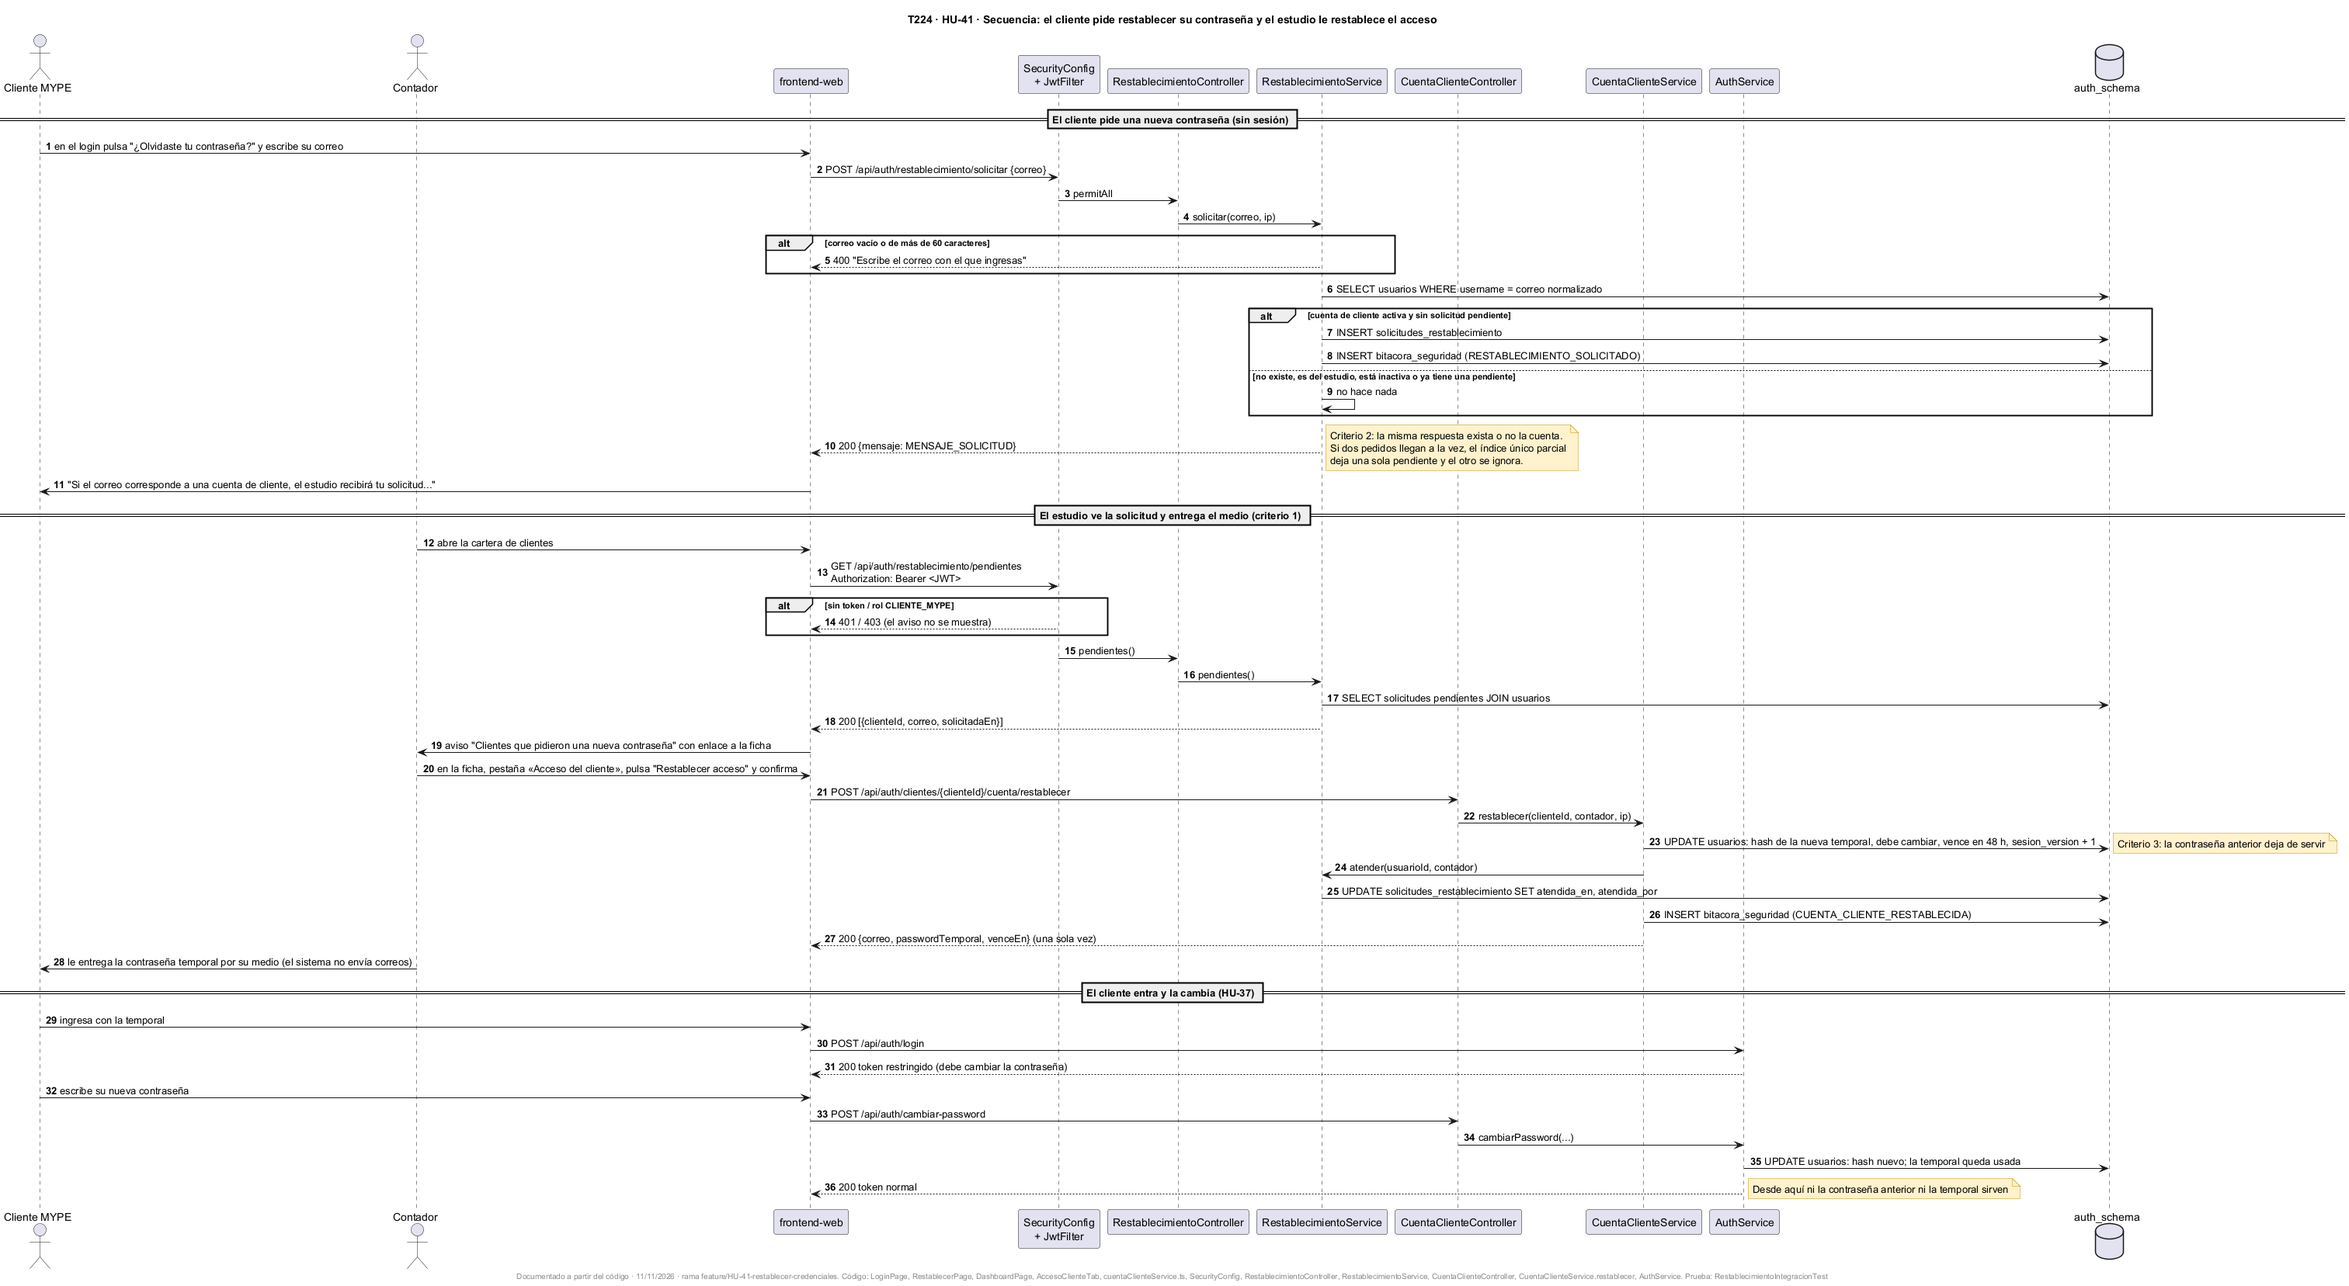
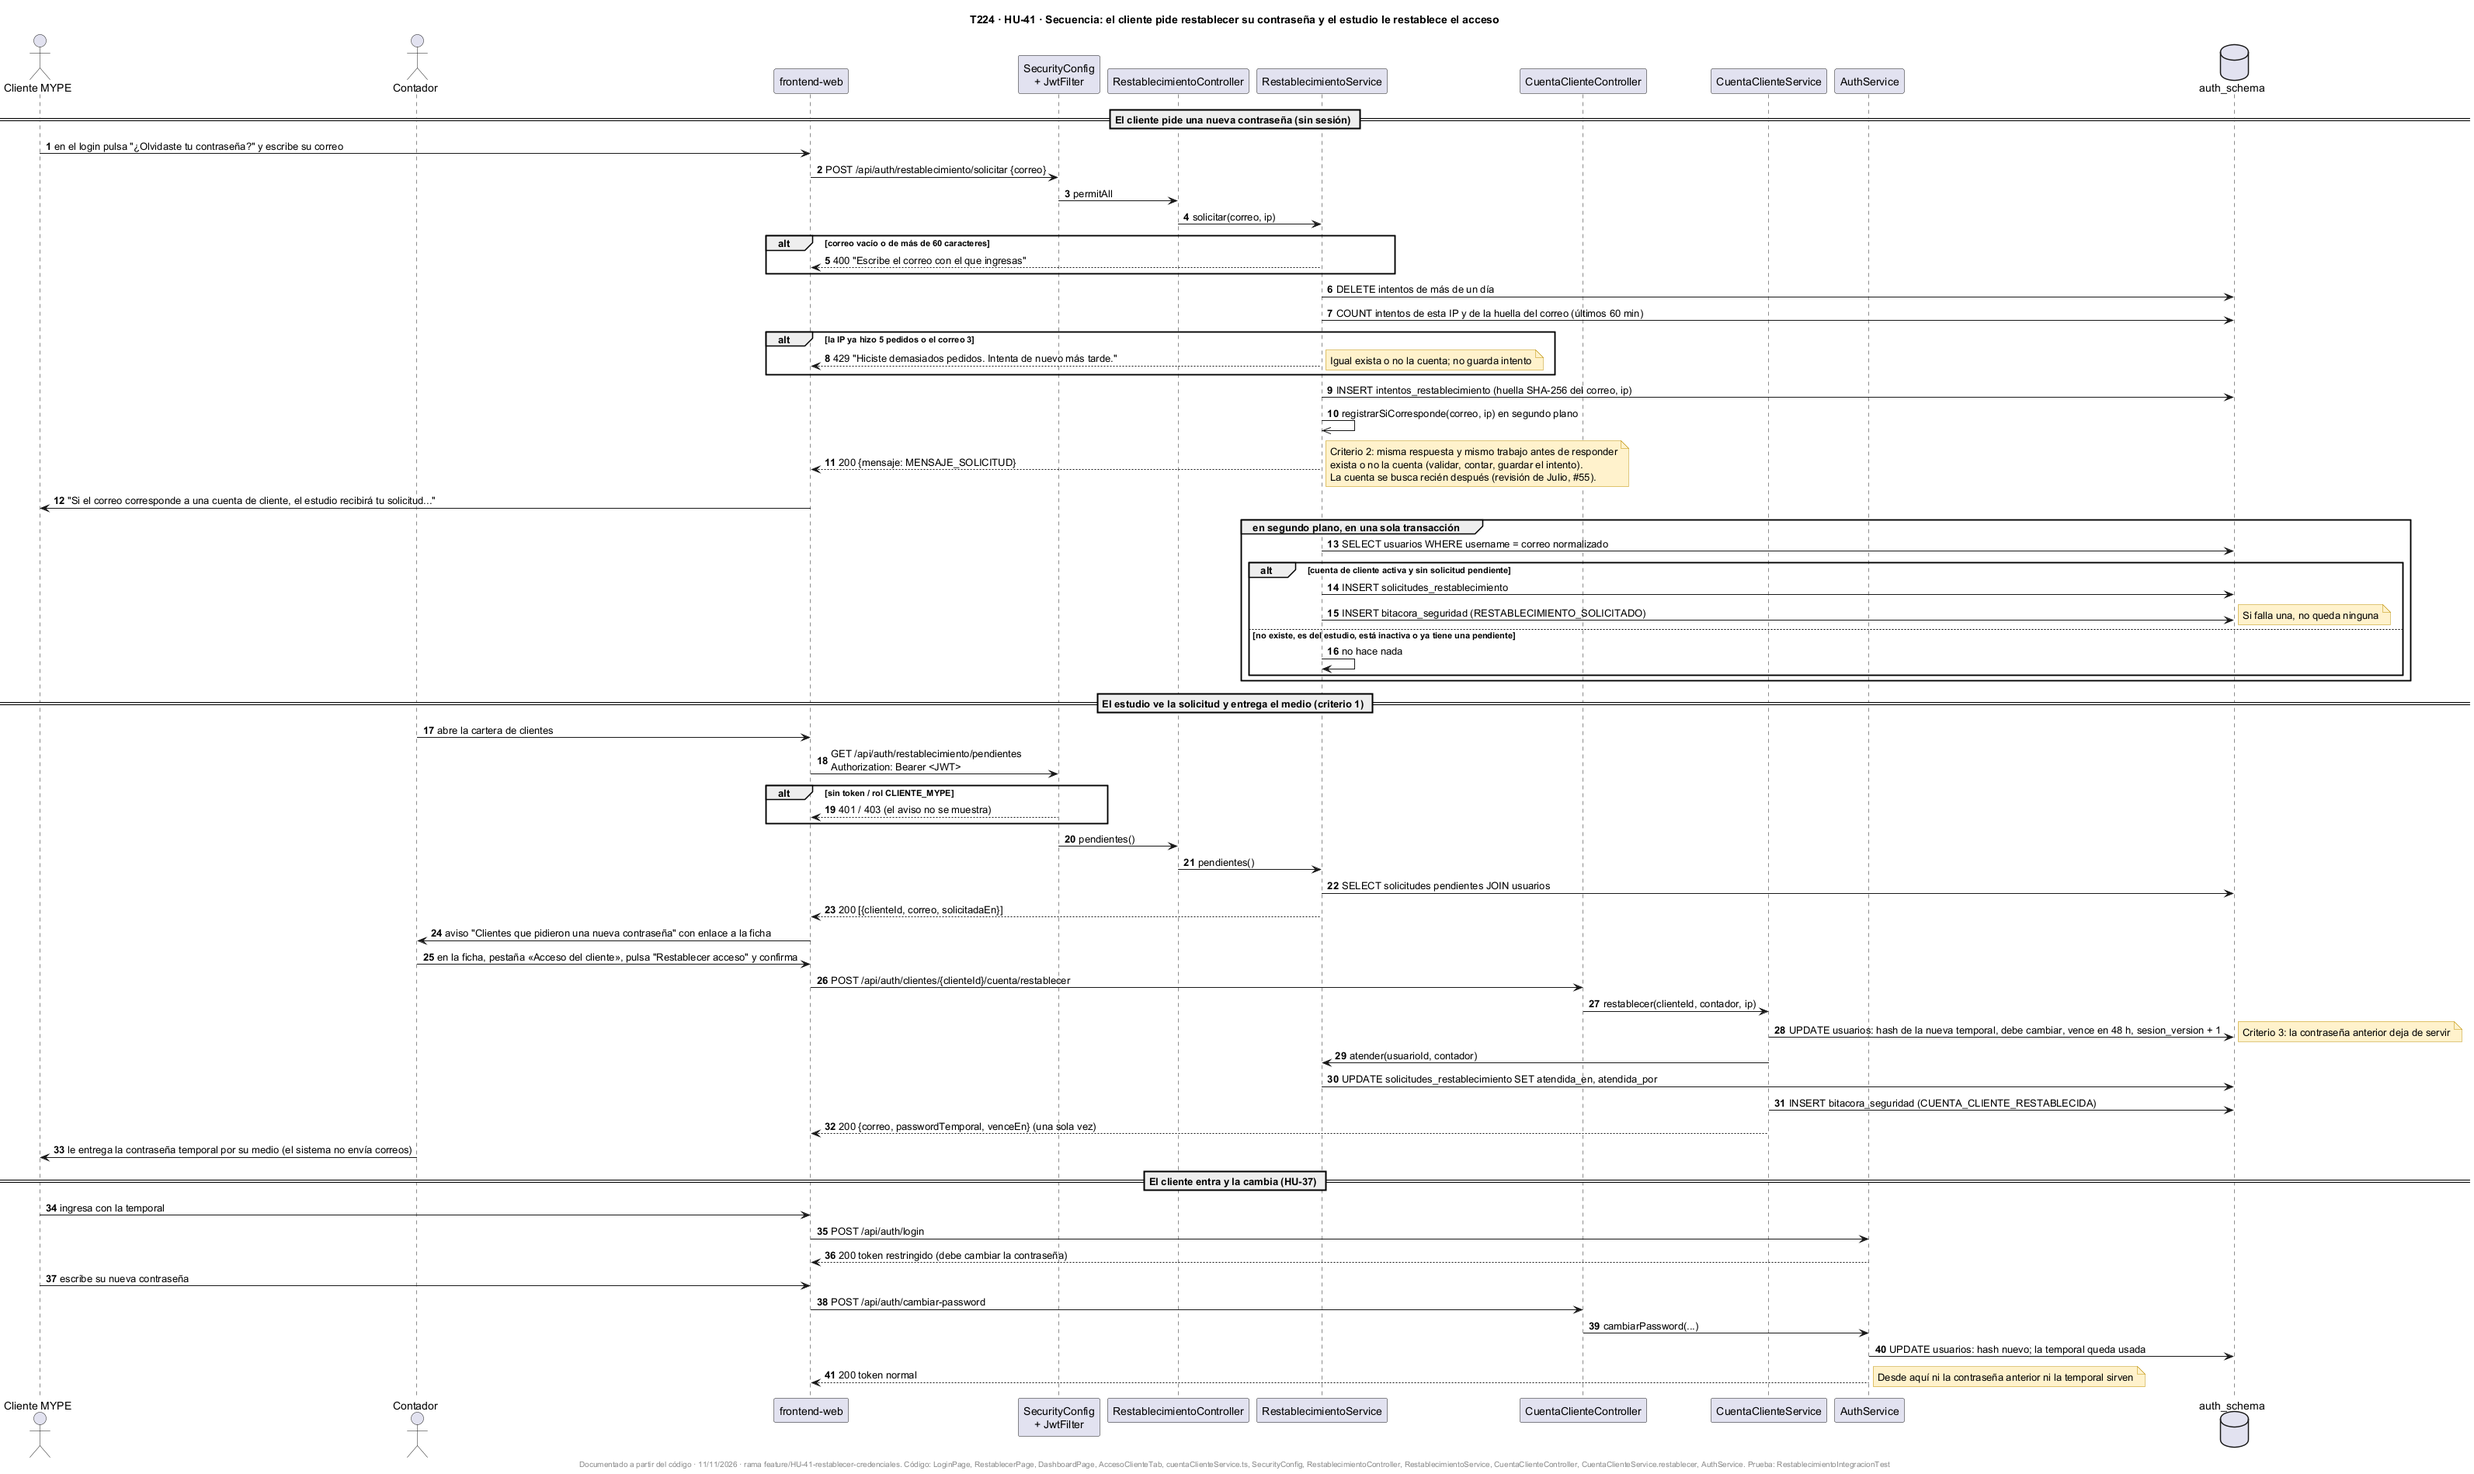
HU-41: diagramas de la tarea 224 con los límites, el intento por pedido, la búsqueda en segundo plano y la transacción

diff --git a/docs/uml/TRAZABILIDAD.md b/docs/uml/TRAZABILIDAD.md
@@ -102,4 +102,4 @@ Estos diagramas se hicieron después del código, con su rama, y el pie dice «D
 
 | Tarea (Sprint 2) | Historia | Diagramas | Clases y archivos que lo respaldan | Pruebas relacionadas |
 |---|---|---|---|---|
-| T224 | HU-41 | [`T224-HU41-clases`](T224-HU41-clases.puml) · [png](img/T224-HU41-clases.png) · [`T224-HU41-secuencia-restablecer`](T224-HU41-secuencia-restablecer.puml) · [png](img/T224-HU41-secuencia-restablecer.png) · [`T224-HU41-er-solicitudes-restablecimiento`](T224-HU41-er-solicitudes-restablecimiento.puml) · [png](img/T224-HU41-er-solicitudes-restablecimiento.png) · [`T224-HU41-actividad-restablecer`](T224-HU41-actividad-restablecer.puml) · [png](img/T224-HU41-actividad-restablecer.png) | `RestablecimientoController`, `RestablecimientoService`, `CuentaClienteService.restablecer` (atiende la solicitud), `SolicitudRestablecimiento`, `SolicitudRestablecimientoRepository`, `SecurityConfig`, `ms-auth/schema.sql`, `RestablecerPage.tsx`, `DashboardPage.tsx`, `LoginPage.tsx`. Decisión del 11/11: el sistema no envía correos; el «medio» es la temporal que entrega el estudio | `RestablecimientoServiceTest`, `RestablecimientoIntegracionTest`, `CuentaClienteServiceTest`, `RestablecerPage.test.tsx`, `DashboardPage.test.tsx`, `cuentaClienteService.test.ts` |
+| T224 | HU-41 | [`T224-HU41-clases`](T224-HU41-clases.puml) · [png](img/T224-HU41-clases.png) · [`T224-HU41-secuencia-restablecer`](T224-HU41-secuencia-restablecer.puml) · [png](img/T224-HU41-secuencia-restablecer.png) · [`T224-HU41-er-solicitudes-restablecimiento`](T224-HU41-er-solicitudes-restablecimiento.puml) · [png](img/T224-HU41-er-solicitudes-restablecimiento.png) · [`T224-HU41-actividad-restablecer`](T224-HU41-actividad-restablecer.puml) · [png](img/T224-HU41-actividad-restablecer.png) | `RestablecimientoController`, `RestablecimientoService` (límite por IP y por correo, intento por pedido, búsqueda en segundo plano, transacción), `CuentaClienteService.restablecer` (atiende la solicitud), `IntentoRestablecimiento`, `IntentoRestablecimientoRepository`, `SolicitudRestablecimiento`, `SolicitudRestablecimientoRepository`, `SecurityConfig`, `ms-auth/schema.sql`, `RestablecerPage.tsx`, `DashboardPage.tsx`, `LoginPage.tsx`. Decisión del 11/11: el sistema no envía correos; el «medio» es la temporal que entrega el estudio | `RestablecimientoServiceTest`, `RestablecimientoIntegracionTest`, `CuentaClienteServiceTest`, `RestablecerPage.test.tsx`, `DashboardPage.test.tsx`, `cuentaClienteService.test.ts` |
